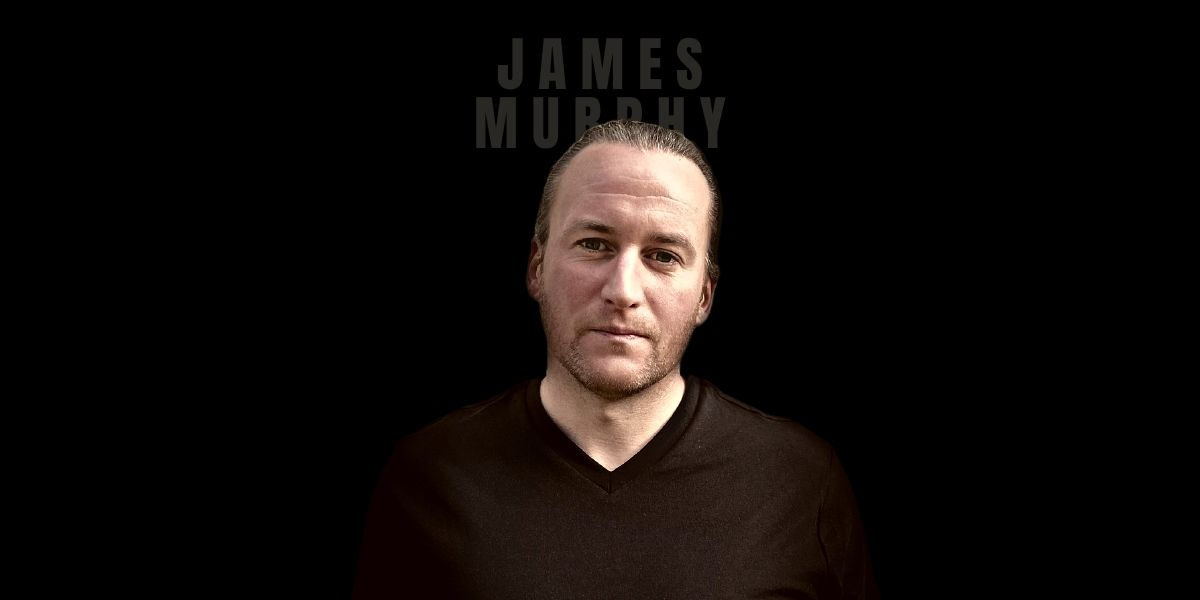
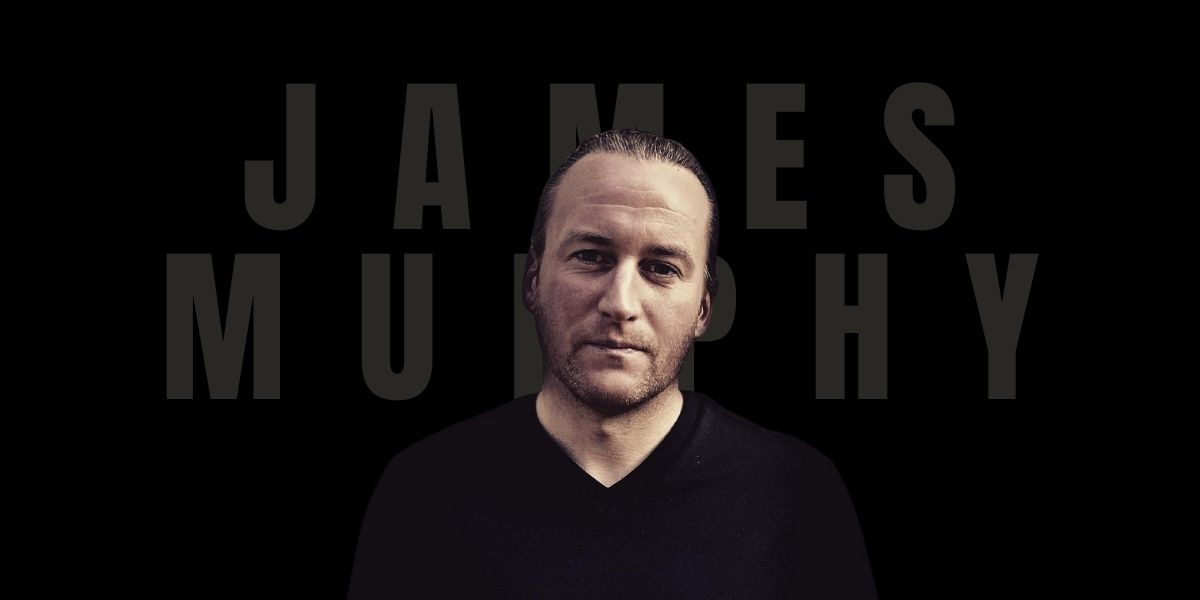
Add hero image

diff --git a/index.html b/index.html
@@ -31,16 +31,7 @@
                    
 
 
-                    <div class="dropdown">
-                        <button class="dropbtn">Projects</button>
-                        <div class="dropdown-content">
-                            <a href="foe.html">The Local Business Awards</a>
-                            <a href="foe.html">Future of Earth</a>
-                            <a href="crp.html">Climate Reality Project</a>
-                            <a href="crp.html">The Playbook</a>
-                            <a href="crp.html">Academy</a>
-                        </div>
-                    </div>
+                    
 
                     <div class="dropdown">
                         <button class="dropbtn">What I Do</button>
@@ -50,6 +41,17 @@
                             <a href="#">Communities</a>
                             <a href="#">Consulting</a>
                             <a href="#">Speaking</a>
+                        </div>
+                    </div>
+
+                    <div class="dropdown">
+                        <button class="dropbtn">Projects</button>
+                        <div class="dropdown-content">
+                            <a href="foe.html">The Local Business Awards</a>
+                            <a href="foe.html">Future of Earth</a>
+                            <a href="crp.html">Climate Reality Project</a>
+                            <a href="crp.html">The Playbook</a>
+                            <a href="crp.html">Academy</a>
                         </div>
                     </div>
 

diff --git a/assets/css/style.css b/assets/css/style.css
@@ -193,13 +193,13 @@ Nav Bar
   width: auto;
   object-fit: contain;
   overflow: hidden;
-  background: url(../images/3.jpg) no-repeat center center;
+  background: url(../images/4.jpg) no-repeat center center;
 }
 
 @media screen and (max-width: 968px) {
   
   #hero-image {
-    background: url(../images/4.jpg) no-repeat center center;
+    background: url(../images/5.jpg) no-repeat center center;
   }
 }
 
